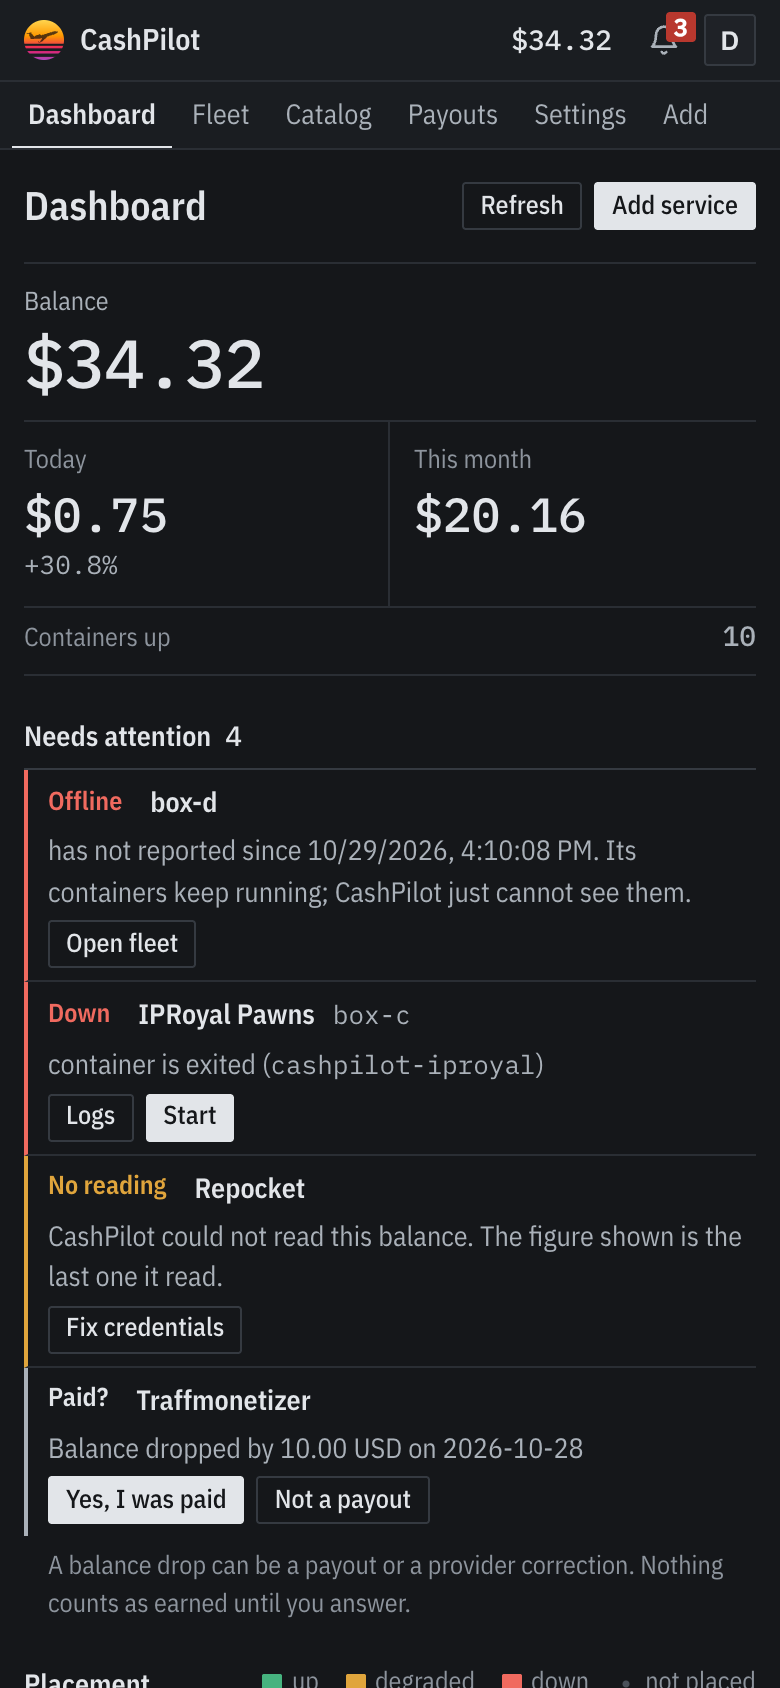
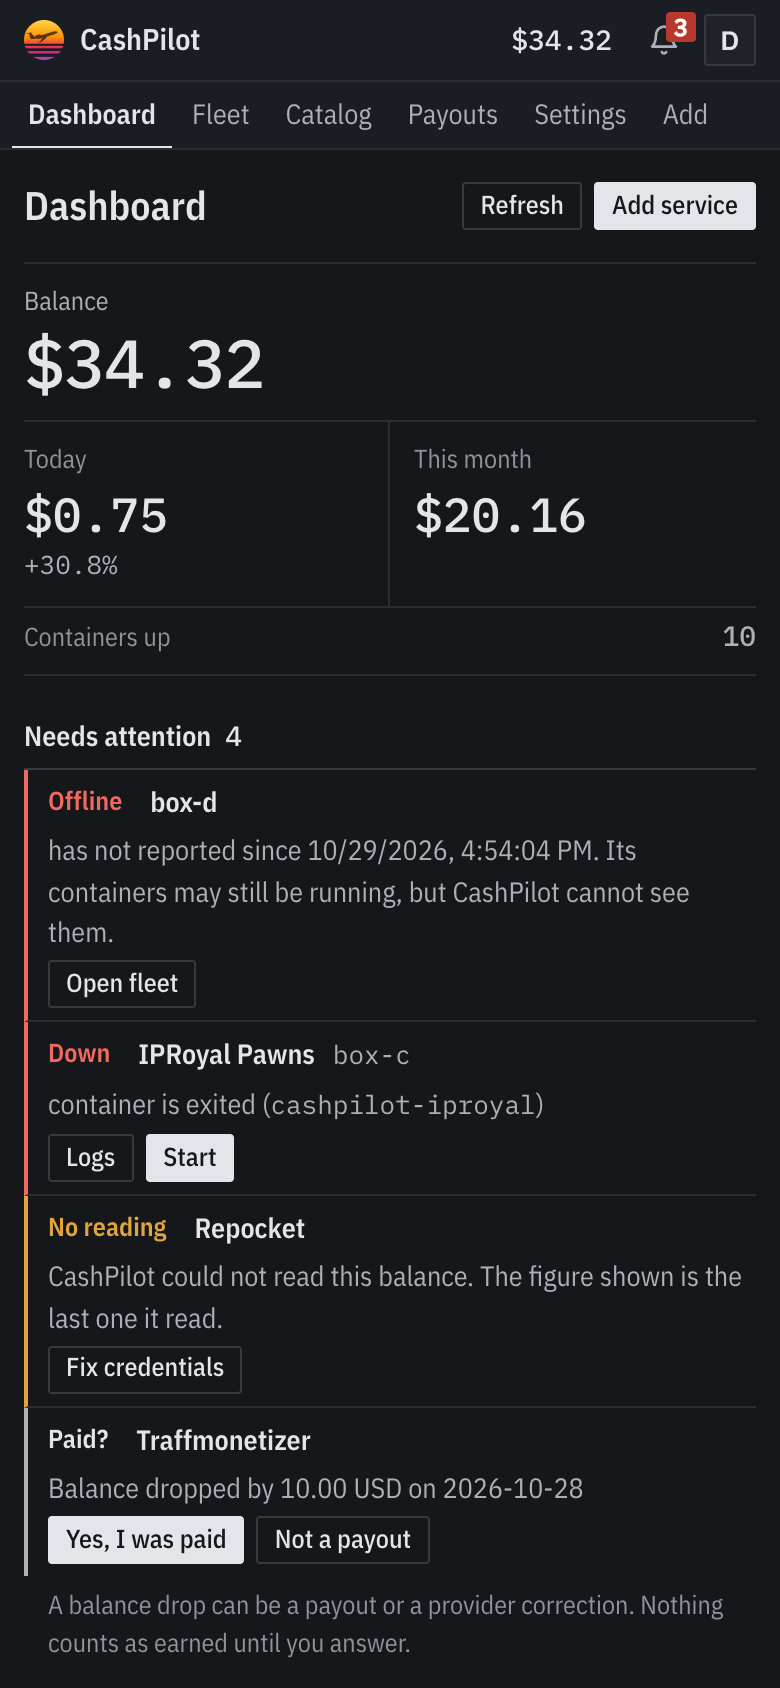
fix(ui): never show the all-clear when a check failed, and act on the right copy
- The dashboard says what it could not check (workers, credentials, payout questions) instead of 'Nothing needs you'.
- Start and Logs in the attention list carry the copy number.
- A late credential check no longer overwrites a newer attention list.
- The offline line no longer claims the containers are running.
- The GPU column stays when the worker list failed to load.
- Drop aria-keyshortcuts: 'g d' announced two separate keys.
- Hide the Credential health index link while its card is hidden.
- The claim modal gives a dashboard link, not 'keep running', when eligibility is unknown.
- The demo seed stubs the credential-test collector; the screenshot script refuses a redirected page and a filter that matches nothing.

diff --git a/app/static/js/app.js b/app/static/js/app.js
@@ -298,9 +298,12 @@ const CP = (() => {
       // Unknown is not "nothing pending". Leave whatever is on screen rather
       // than hiding a question the user still owes an answer to.
       console.warn('Could not load pending payouts:', err);
+      _attentionCount.payoutsUnknown = true;
+      updateAttentionSummary(null, null);
       return;
     }
 
+    _attentionCount.payoutsUnknown = false;
     _attentionCount.payouts = pending.length;
     updateAttentionSummary(null, null);
     if (!pending.length) {
@@ -842,9 +845,10 @@ const CP = (() => {
       // fleet without one every row read "None" or a dash. The cells are still
       // rendered, so the row keeps the header's shape; the container class
       // hides the column (style.css, .no-gpu).
-      container.classList.toggle('no-gpu', !Object.values(_hostResources || {}).some(h => h.gpu && h.gpu.available === true));
+      // A failed worker list keeps the column, so its cells can say why.
+      container.classList.toggle('no-gpu', workers !== null && !Object.values(_hostResources || {}).some(h => h.gpu && h.gpu.available === true));
       renderPlacement(services || [], workers);
-      renderAttention(services || [], workers);
+      renderAttention(services || [], workers, ++_attentionSeq);
 
       if (!services || services.length === 0) {
         // An empty list means one of two very different things, and saying the
@@ -1032,16 +1036,23 @@ const CP = (() => {
       </table>`;
   }
 
-  async function renderAttention(services, workers) {
+  // A refresh that started later wins: renderAttention awaits the credential
+  // check, so an older call can finish last and must not overwrite the newer list.
+  let _attentionSeq = 0;
+
+  async function renderAttention(services, workers, seq) {
     const list = document.getElementById('attention-list');
     if (!list) return;
     const items = [];
+    if (workers === null) {
+      items.push({ level: 'warn', tag: 'Unknown', what: 'Boxes', why: 'CashPilot could not load the worker list, so it cannot tell which boxes are reporting.' });
+    }
     const boxName = {};
     for (const w of (workers || [])) boxName[String(w.id)] = w.name;
 
     for (const w of (workers || [])) {
       if (w.status !== 'online') {
-        items.push({ level: 'fail', tag: 'Offline', what: w.name, why: `has not reported since ${fmtTimestamp(w.last_heartbeat).text}. Its containers keep running; CashPilot just cannot see them.`, actions: '<a class="btn btn-ghost btn-sm" href="/fleet">Open fleet</a>' });
+        items.push({ level: 'fail', tag: 'Offline', what: w.name, why: `has not reported since ${fmtTimestamp(w.last_heartbeat).text}. Its containers may still be running, but CashPilot cannot see them.`, actions: '<a class="btn btn-ghost btn-sm" href="/fleet">Open fleet</a>' });
       }
     }
     for (const svc of services) {
@@ -1049,7 +1060,10 @@ const CP = (() => {
         const st = instanceState(inst.status);
         if (st === 'ok') continue;
         const where = inst.node === 'local' ? 'local' : (boxName[String(inst.worker_id)] || inst.node);
-        const wid = inst.worker_id != null ? ` data-a2="${escapeHtml(String(inst.worker_id))}"` : '';
+        // The copy number rides along, or Start and Logs act on copy one.
+        const wid = inst.worker_id != null
+          ? ` data-a2="${escapeHtml(String(inst.worker_id))}"${inst.instance > 1 ? ` data-a3="${escapeHtml(String(inst.instance))}"` : ''}`
+          : '';
         const controllable = _canWrite && !inst.unmanaged && !svc.unmanaged && inst.has_docker && !inst.is_android;
         items.push({
           level: st,
@@ -1080,7 +1094,13 @@ const CP = (() => {
 
     if (_isOwner) {
       let health = [];
-      try { health = await api('/api/credentials/health'); } catch (err) { health = []; }
+      try {
+        health = await api('/api/credentials/health');
+      } catch (err) {
+        console.warn('Could not load credential health:', err);
+        items.push({ level: 'warn', tag: 'Unknown', what: 'Credentials', why: 'CashPilot could not check credential expiry. Reload the page to try again.' });
+      }
+      if (seq !== _attentionSeq) return;
       for (const row of (Array.isArray(health) ? health : [])) {
         if (row.status !== 'expiring_soon' && row.status !== 'likely_expired') continue;
         if (items.some(i => i.tag === 'No reading' && String(i.what).toLowerCase() === String(row.service).toLowerCase())) continue;
@@ -1106,7 +1126,7 @@ const CP = (() => {
     updateAttentionSummary(services, workers);
   }
 
-  const _attentionCount = { problems: 0, payouts: 0, services: null, workers: null };
+  const _attentionCount = { problems: 0, payouts: 0, payoutsUnknown: false, services: null, workers: null };
 
   function updateAttentionSummary(services, workers) {
     if (services) { _attentionCount.services = services; _attentionCount.workers = workers; }
@@ -1121,7 +1141,9 @@ const CP = (() => {
     if (!clear) return;
     if (total) { clear.hidden = true; return; }
     const online = (workers || []).filter(w => w.status === 'online').length;
-    clear.textContent = services
+    clear.textContent = _attentionCount.payoutsUnknown
+      ? 'CashPilot could not check for payouts waiting on an answer. Reload the page to try again.'
+      : services
       ? `Nothing needs you. ${online} of ${(workers || []).length} boxes reporting.`
       : 'Nothing needs you.';
     clear.hidden = false;
@@ -2044,6 +2066,10 @@ const CP = (() => {
              <p class="claim-why">${methodLabel[co.method] || methodLabel.redirect}</p>
              <a href="${escapeHtml(co.dashboard_url)}" target="_blank" rel="noopener" class="btn btn-primary">${extIcon} Open the provider dashboard</a>
            </div>`;
+      } else if (eligibilityUnknown) {
+        actionSection = co.dashboard_url
+          ? `<div class="claim-action"><a href="${escapeHtml(co.dashboard_url)}" target="_blank" rel="noopener" class="btn btn-ghost">${extIcon} Open the provider dashboard</a></div>`
+          : '';
       } else if (!eligible) {
         actionSection = `<p class="claim-why">Keep the service running to build up the balance.</p>`;
       }
@@ -2084,8 +2110,8 @@ const CP = (() => {
     }
   }
 
-  async function startService(slug, workerId) {
-    const q = workerId != null ? `?worker_id=${workerId}` : '';
+  async function startService(slug, workerId, instance) {
+    const q = workerId != null ? `?worker_id=${workerId}${_instanceQuery(instance)}` : '';
     try {
       await api(`/api/services/${slug}/start${q}`, { method: 'POST' });
       toast(`${slug} starting...`, 'success');
@@ -3099,7 +3125,7 @@ const CP = (() => {
     if (instances.length > 0) {
       html += `
       <div class="sd-block sd-instances">
-        <h4 class="sd-h">Running on ${instances.length} ${instances.length === 1 ? 'box' : 'boxes'}</h4>`;
+        <h4 class="sd-h">Deployed on ${instances.length} ${instances.length === 1 ? 'box' : 'boxes'}</h4>`;
       for (const inst of instances) {
         const s = inst.container.status || 'unknown';
         const st = instanceState(s);
@@ -3216,10 +3242,13 @@ const CP = (() => {
       console.warn('Could not load credential health:', err);
       return;
     }
+    const indexLink = document.getElementById('credential-health-link');
     if (!Array.isArray(rows) || !rows.length) {
       card.style.display = 'none';
+      if (indexLink) indexLink.hidden = true;
       return;
     }
+    if (indexLink) indexLink.hidden = false;
 
     const meta = status => CREDENTIAL_STATUS[status] || CREDENTIAL_STATUS.no_known_expiry;
     rows.sort((a, b) => meta(a.status).rank - meta(b.status).rank);

diff --git a/app/templates/base.html b/app/templates/base.html
@@ -71,16 +71,16 @@
         <span>CashPilot</span>
       </a>
       <nav class="topnav" aria-label="Main">
-        <a href="/" class="sidebar-link {% if active_page == 'dashboard' %}active{% endif %}" data-key="d" aria-keyshortcuts="g d">Dashboard<kbd>d</kbd></a>
-        <a href="/fleet" class="sidebar-link {% if active_page == 'fleet' %}active{% endif %}" data-key="f" aria-keyshortcuts="g f">Fleet<kbd>f</kbd></a>
-        <a href="/catalog" class="sidebar-link {% if active_page == 'catalog' %}active{% endif %}" data-key="c" aria-keyshortcuts="g c">Catalog<kbd>c</kbd></a>
+        <a href="/" class="sidebar-link {% if active_page == 'dashboard' %}active{% endif %}" data-key="d">Dashboard<kbd>d</kbd></a>
+        <a href="/fleet" class="sidebar-link {% if active_page == 'fleet' %}active{% endif %}" data-key="f">Fleet<kbd>f</kbd></a>
+        <a href="/catalog" class="sidebar-link {% if active_page == 'catalog' %}active{% endif %}" data-key="c">Catalog<kbd>c</kbd></a>
         {% if user and user.r == 'owner' %}
         <!-- Owner-only, matching /payouts and /api/payout-registry. This view maps
              one person to all of their wallets at once. -->
-        <a href="/payouts" class="sidebar-link {% if active_page == 'payouts' %}active{% endif %}" data-key="p" aria-keyshortcuts="g p">Payouts<kbd>p</kbd></a>
-        <a href="/settings" class="sidebar-link {% if active_page == 'settings' %}active{% endif %}" data-key="s" aria-keyshortcuts="g s">Settings<kbd>s</kbd></a>
+        <a href="/payouts" class="sidebar-link {% if active_page == 'payouts' %}active{% endif %}" data-key="p">Payouts<kbd>p</kbd></a>
+        <a href="/settings" class="sidebar-link {% if active_page == 'settings' %}active{% endif %}" data-key="s">Settings<kbd>s</kbd></a>
         {% endif %}
-        <a href="/setup" class="sidebar-link {% if active_page == 'setup' %}active{% endif %}" data-key="a" aria-keyshortcuts="g a" aria-label="Add services"><span>Add<span class="nav-more"> services</span></span><kbd>a</kbd></a>
+        <a href="/setup" class="sidebar-link {% if active_page == 'setup' %}active{% endif %}" data-key="a" aria-label="Add services"><span>Add<span class="nav-more"> services</span></span><kbd>a</kbd></a>
       </nav>
       <div class="topbar-right">
         <div class="topbar-earnings" title="Total balance across every service">

diff --git a/app/templates/settings.html b/app/templates/settings.html
@@ -8,7 +8,7 @@
 <div class="settings-layout">
 <nav class="settings-index" aria-label="Settings sections">
   <a href="#set-collection">Earnings collection</a>
-  <a href="#credential-health-card">Credential health</a>
+  <a href="#credential-health-card" id="credential-health-link" hidden>Credential health</a>
   <a href="#set-env">Environment</a>
   <a href="#set-about">About and updates</a>
 </nav>

diff --git a/scripts/ui_demo_seed.py b/scripts/ui_demo_seed.py
@@ -403,7 +403,7 @@ def serve(port: int, data_dir: Path) -> None:
     """Run the seeded UI with every outbound job stubbed (see module docstring)."""
     import uvicorn
 
-    from app import database, exchange_rates, main, update_check
+    from app import collectors, database, exchange_rates, main, update_check
 
     async def _noop(*_a, **_kw) -> None:
         return None
@@ -430,6 +430,9 @@ def serve(port: int, data_dir: Path) -> None:
     update_check.refresh = _noop
     update_check.refresh_android = _noop
     main._run_collection = _noop
+    # The credential test and the per-node breakdown build a live collector
+    # from the seeded placeholder tokens; with no collector they answer locally.
+    collectors.build_one = lambda _slug, _config: (None, [])
     main._check_stale_workers = _keep_workers_fresh
 
     uvicorn.run(main.app, host="127.0.0.1", port=port, log_level="warning")
